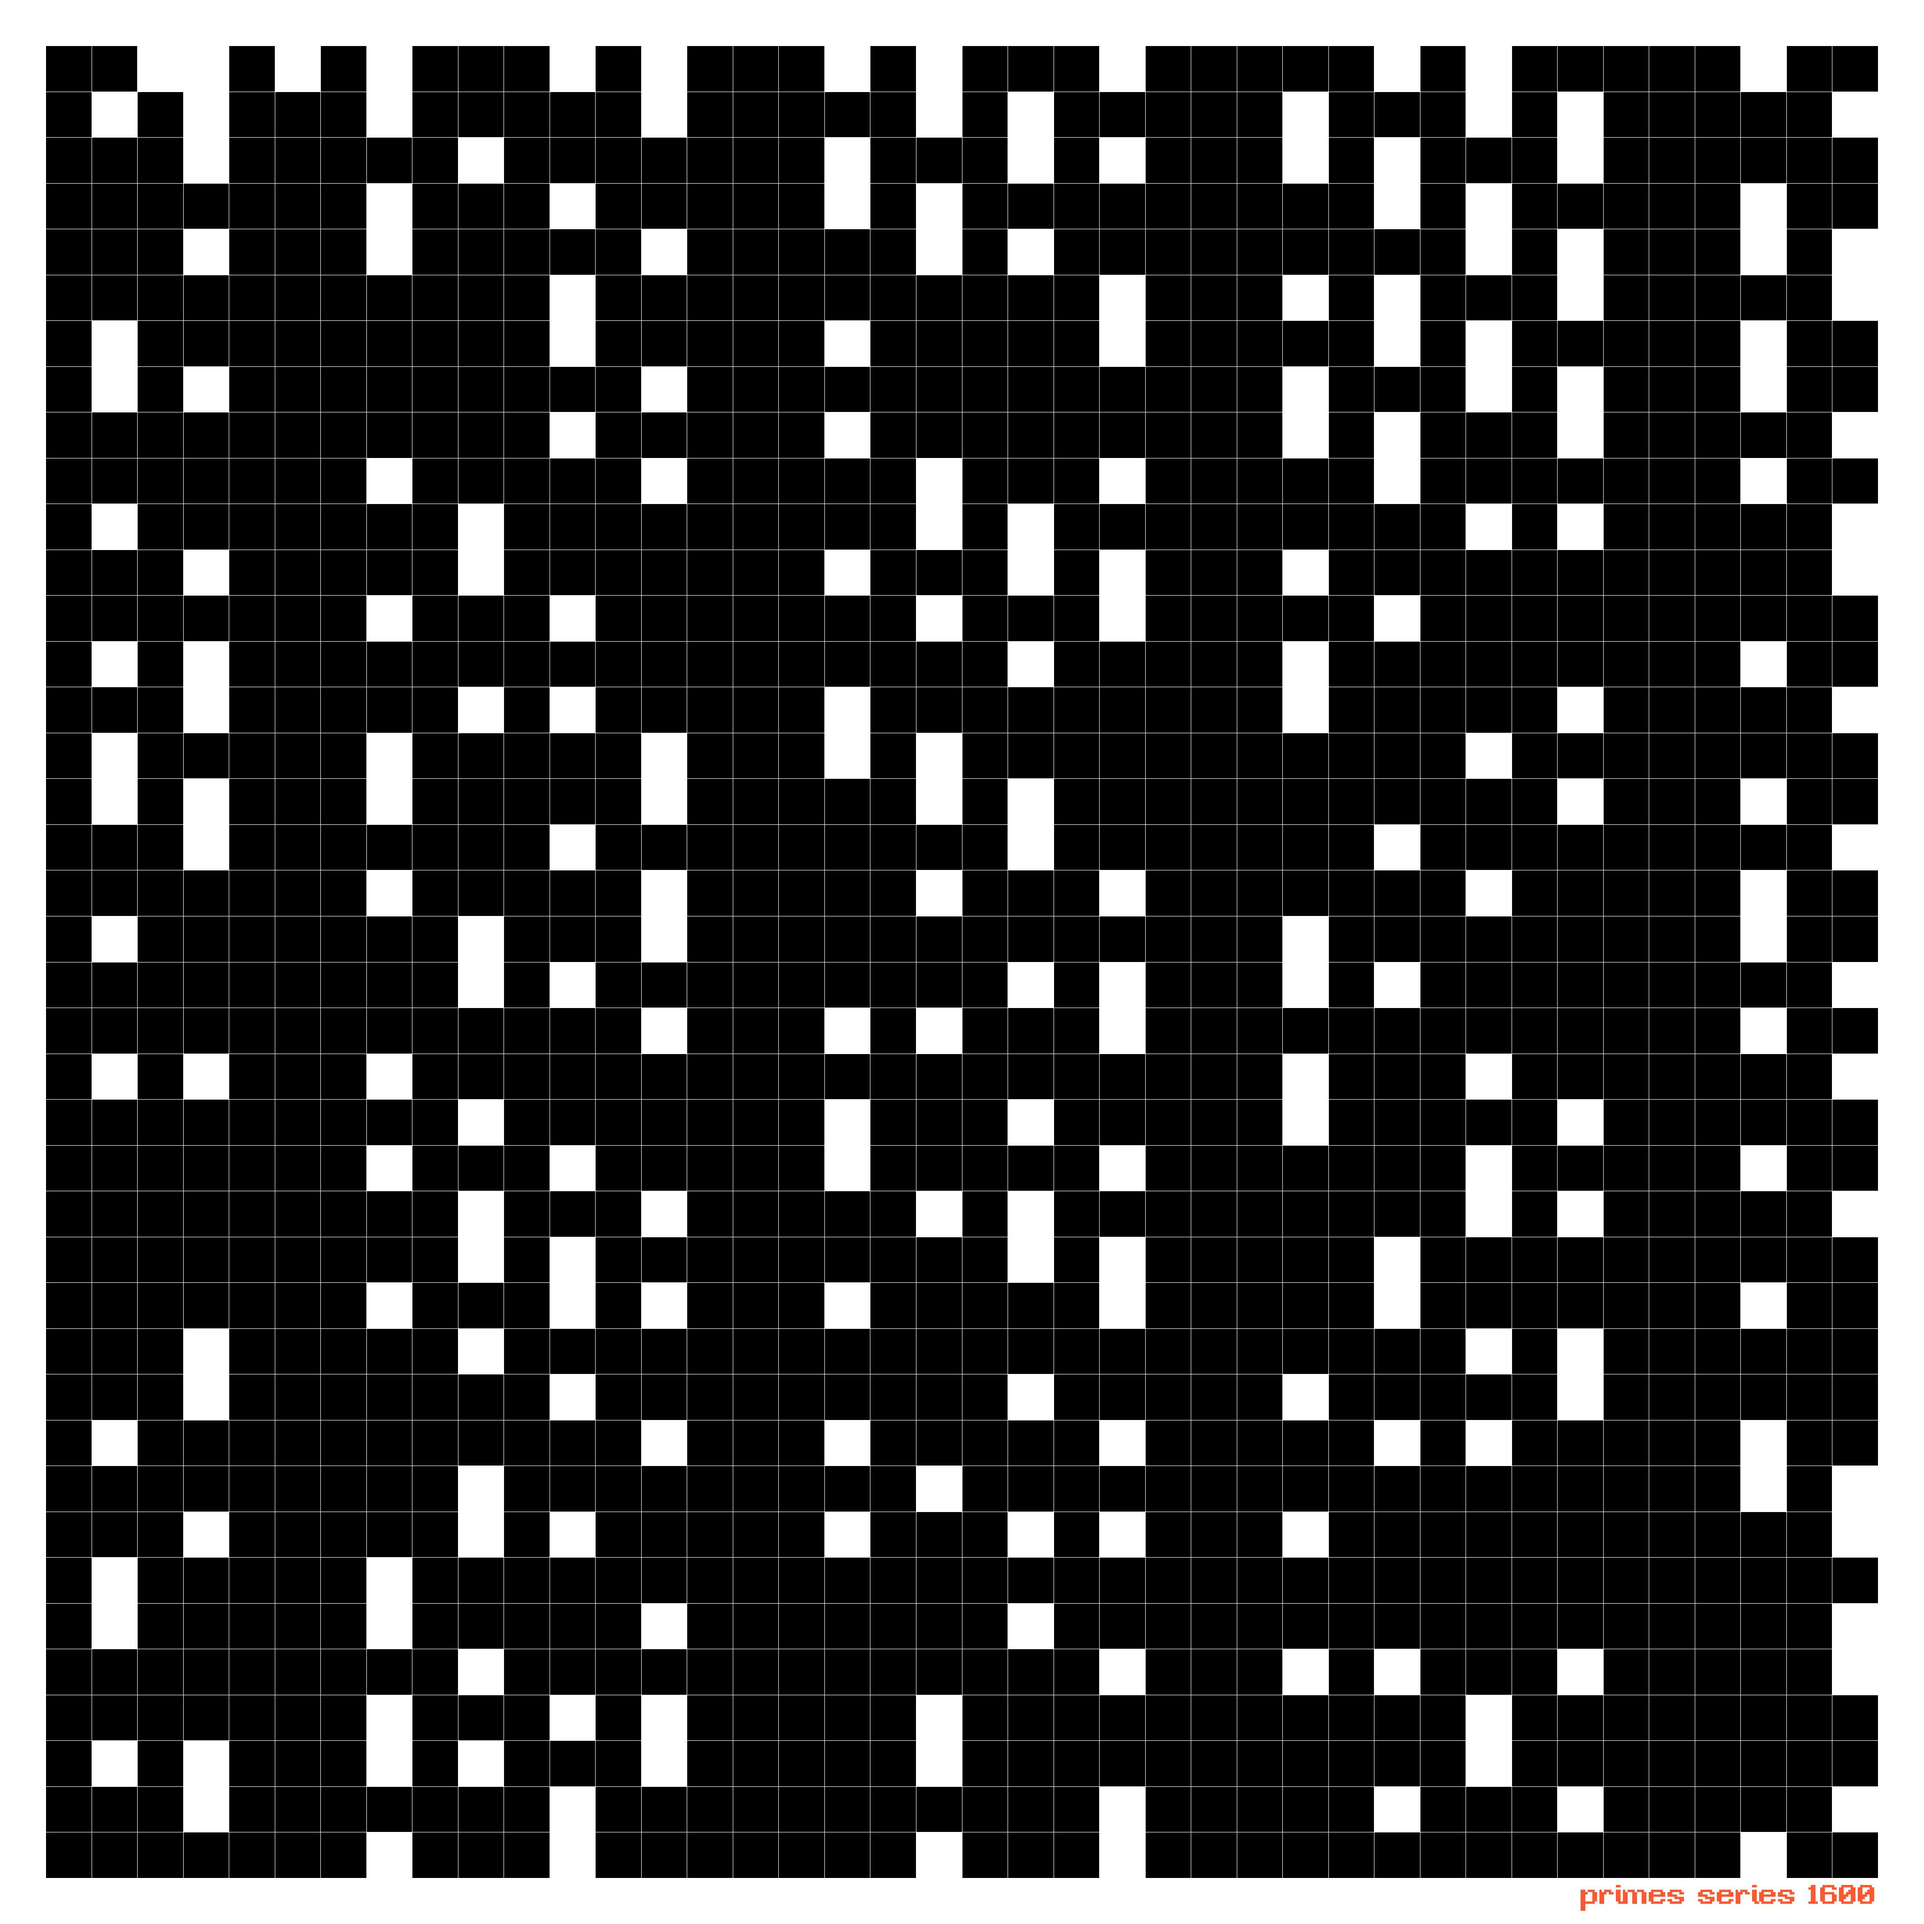
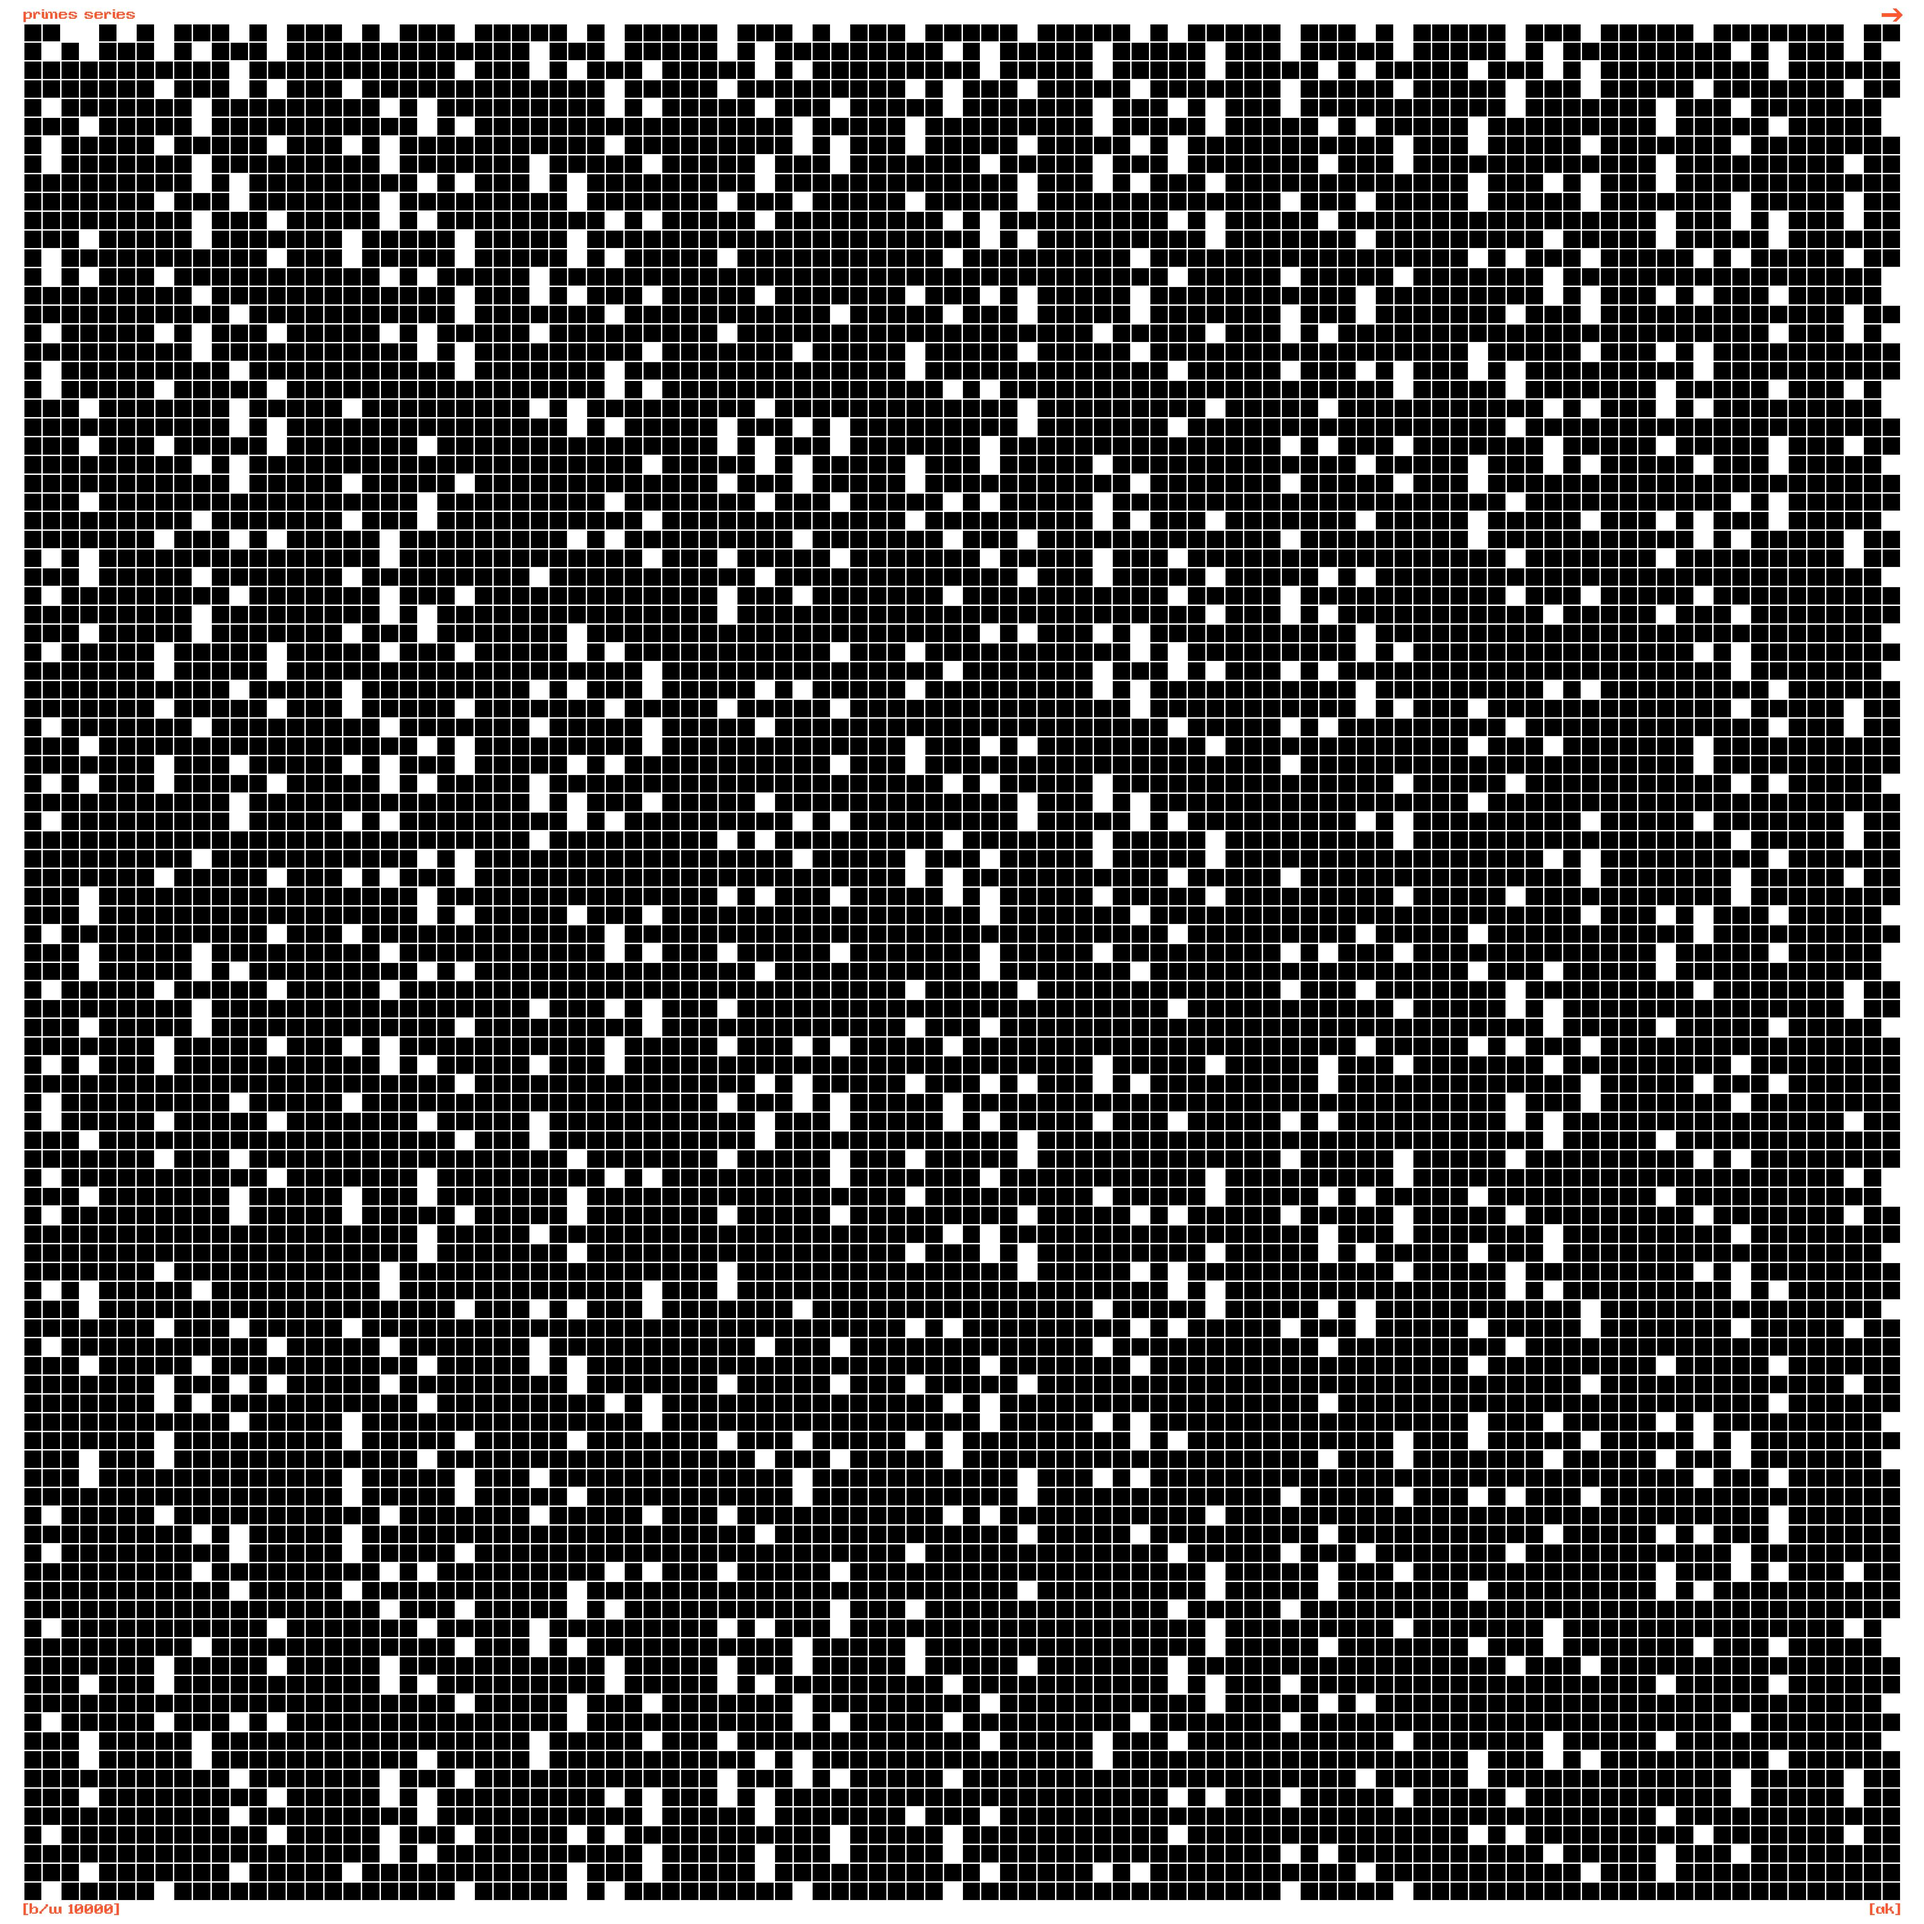
Added final details to image

diff --git a/main.py b/main.py
@@ -15,6 +15,18 @@ class ImageNFT:
     draw = ImageDraw.Draw(self.image)
     draw.rectangle((margin, margin, w - margin, h - margin), fill=bgcolor)
 
+  def add_image(self, path, pos):
+    img_n = Image.open(path).convert("RGBA")
+    img_n = img_n.resize((64, 64))
+    mask = img_n.split()[3]  # Canal alfa
+    self.image.paste(img_n, pos, mask=mask)
+
+
+
+
+
+    
+
   def add_text(self, text, xp, yp, color='black', fsize=16):
     draw = ImageDraw.Draw(self.image)
     font_path = "iakl.ttf"
@@ -27,10 +39,10 @@ class ImageNFT:
     width, height =self.image.size
 
     for c in range(self.num_cols + 1):
-        draw.line([(self.margin + c * self.cell_w, self.margin), (self.margin + c * self.cell_w, height - self.margin)], fill=lcolor)
+        draw.line([(self.margin + c * self.cell_w, self.margin), (self.margin + c * self.cell_w, height - self.margin)], fill=lcolor, width=3)
 
     for r in range(self.num_rows + 1):
-        draw.line([(self.margin, self.margin + r * self.cell_h, ), (width - self.margin, self.margin + r * self.cell_h)], fill=lcolor)
+        draw.line([(self.margin, self.margin + r * self.cell_h, ), (width - self.margin, self.margin + r * self.cell_h)], fill=lcolor, width=3)
 
   def paint_serie(self, serie, scolor):
     for num in serie:
@@ -52,11 +64,20 @@ class ImageNFT:
     self.cell_w = (width -2*self.margin) / num_rows
     self.cell_h = (height -2*self.margin) / num_cols
 
+  def show(self):
+    # Display the image
+    plt.imshow(image.image)
+    plt.axis('off')  # Optional: Turn off axis labels and ticks
+
+    # Show the plot
+    plt.show()
+
 
 sizeh = 4096
 sizew = 4096
-cells = 40
-margin = sizew / (cells + 2)
+cells = 100
+margin = 50
+#margin = sizew / (cells + 2)
 
 rs = "#fdcae1"
 b = "#84b6f4"
@@ -69,18 +90,19 @@ image.set_grid(cells, cells)
 
 prime_numbers = series.get_primes_lower_than_x(cells * cells)
 image.paint_serie(prime_numbers, 'white')
-image.add_text(f"primes series {cells * cells}", sizew - margin*7.5, sizeh - margin, tc, int(margin * 2/3))
+image.add_text("primes series", margin, margin*1/4, tc, int(margin * 2/3))
 
+image.add_text(f"[b/w {cells * cells}]", margin, sizeh - margin, tc, int(margin * 2/3))
+
+image.add_text("[ak]", sizew - margin *2.3, sizeh - margin, tc, int(margin * 2/3))
+
+image.add_image("right.png", (sizew - margin*2, 0))
 image.draw_grid('white')
 
 image.savejpg('primes')
 
-# Display the image
-plt.imshow(image.image)
-plt.axis('off')  # Optional: Turn off axis labels and ticks
+#image.show()
 
-# Show the plot
-plt.show()
 
 
 # Prime series:
